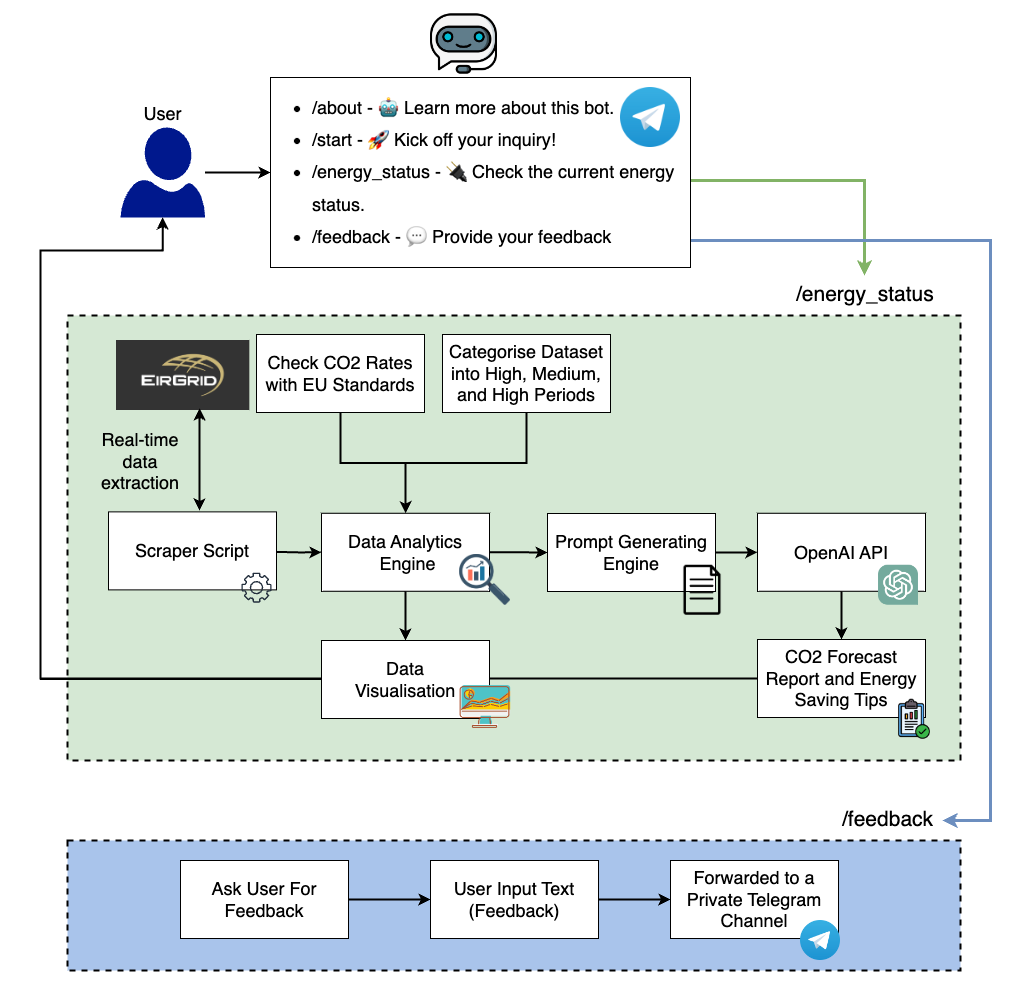
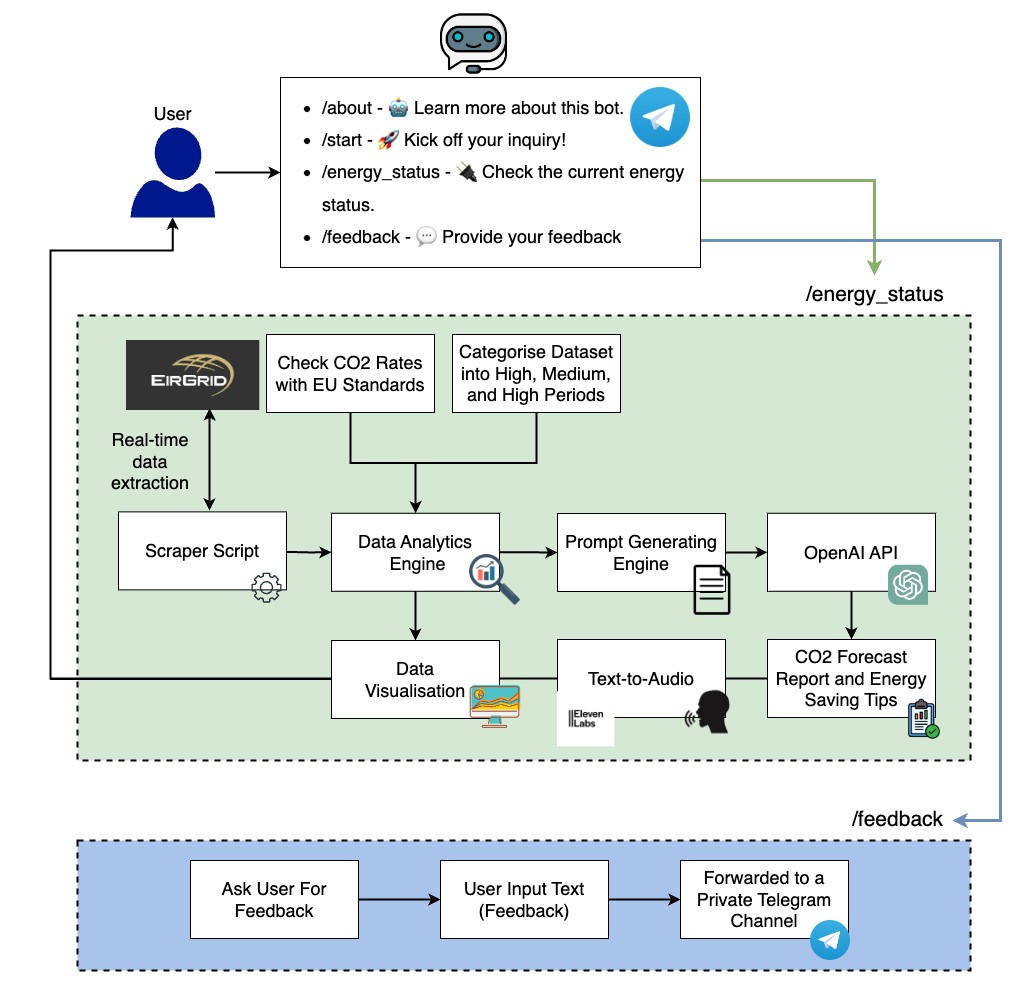
update readme to cover text to audio

diff --git a/README.md b/README.md
@@ -13,6 +13,7 @@ The CleanEnergyBot is a Telegram bot designed to empower users in Ireland with r
 - **Real-time Electricity Insights**: Provides up-to-the-minute data on electricity usage and CO2 emissions in Ireland.
 - **CO2 Emissions Forecasts**: Offers forecasts of CO2 emissions, enabling users to compare current data with past performance and EU standards.
 - **Energy Saving Recommendations**: Delivers tailored advice on the most efficient times for energy usage, helping users reduce their carbon footprint.
+- **Text-to-Speech for Energy Saving Tips**: Utilising the ElevenLabs API, the bot now sends energy-saving tips as voice messages, making it easier and more convenient for users to receive and listen to advice on the go.
 - **User Interaction**: Supports various commands for users to start conversations, receive energy status updates, give feedback, and more.
 - **Graphical Analysis**: Sends users a color-coded graphical image indicating periods of low, medium, and high carbon intensity.
 
@@ -23,7 +24,8 @@ The CleanEnergyBot was developed through a series of carefully structured steps,
 1. **Data Collection**: A Python script was created to fetch real-time and historical electricity data from EirGrid.
 2. **Data Analysis**: The fetched data are analyzed to determine CO2 emissions intensity and compliance with EU standards, categorizing them into low, medium, and high segments.
 3. **OpenAI API Integration**: Functions were developed to prepare structured prompts for the OpenAI API, facilitating the generation of reports and energy-saving tips for users.
-4. **Interactive Bot Interface**: The bot offers various interaction options, including restarting the conversation, contacting the developer, and providing feedback.
+4. **Text-to-Speech Integration**: The ElevenLabs API has been integrated to convert energy-saving tips into audio format, enhancing accessibility and user engagement.
+5. **Interactive Bot Interface**: The bot offers various interaction options, including restarting the conversation, contacting the developer, and providing feedback.
 
 ## Deployment on Azure
 
@@ -47,7 +49,8 @@ To test or contribute to CleanEnergyBot, follow these steps:
 3. **Configuration**: Securely store sensitive information and API tokens by setting them as environment variables in a .env file. Replace `your_token` with your actual tokens for each variable:
    `OPENAI_API_KEY=your token`,
    `Telegram_energy_api=your tiokne`,
-   `CHANNEL_ID_FOR_FEEDBACK=your token`
+   `CHANNEL_ID_FOR_FEEDBACK=your token`,
+   `ELEVEN_API_KEY=your token`
 
 4. **Run Locally**: Test the bot locally by running the provided application script: `python main.py`
 
